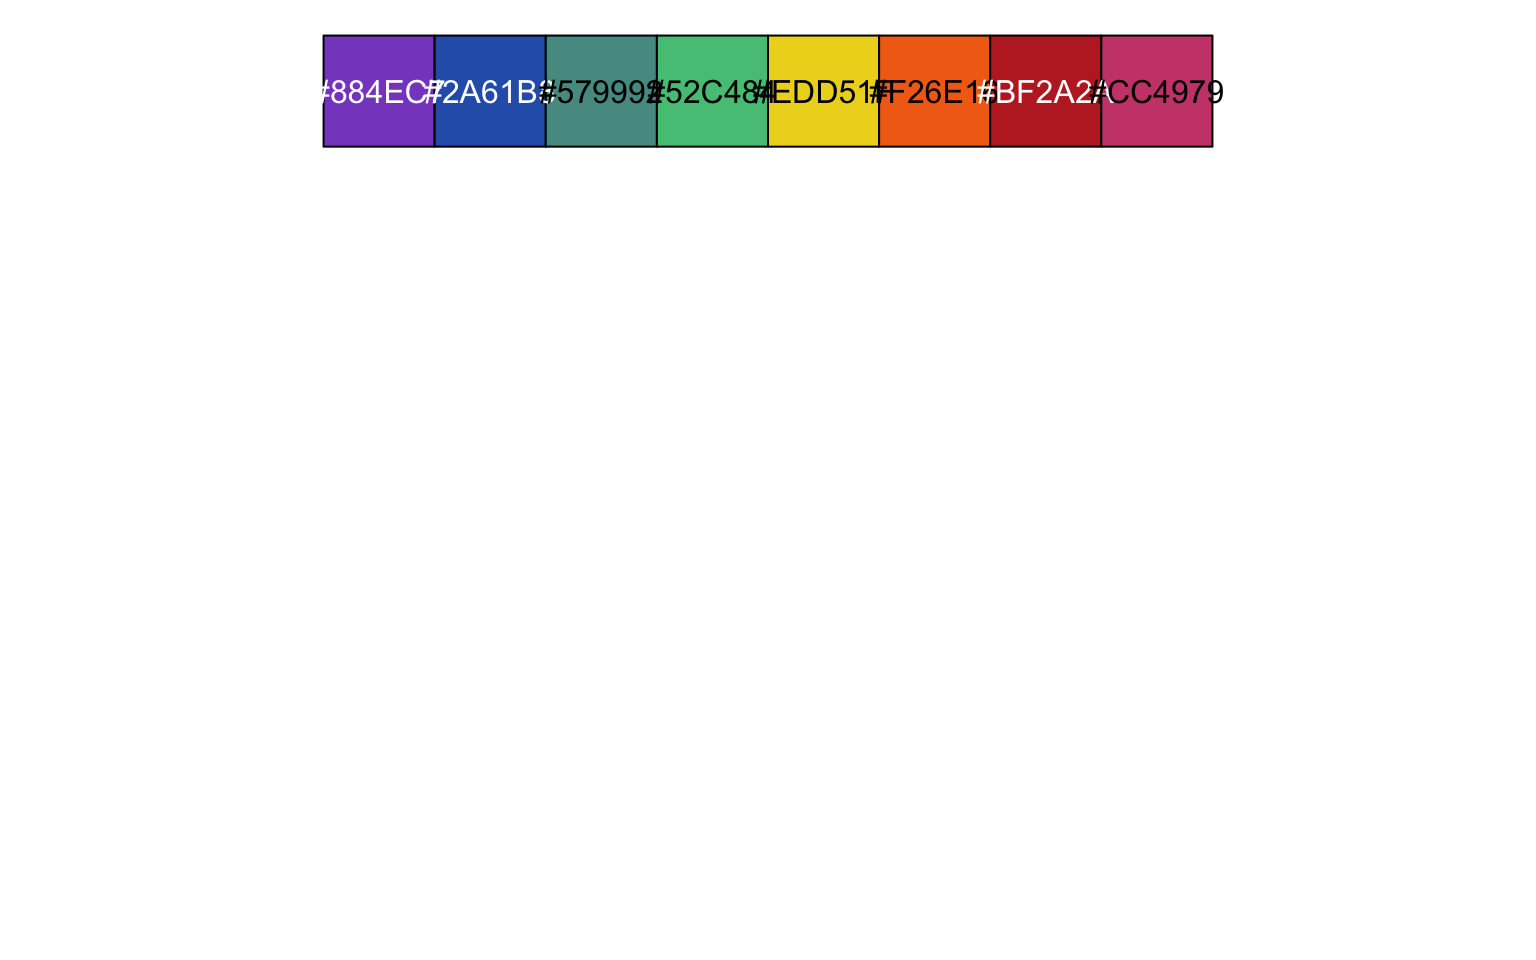
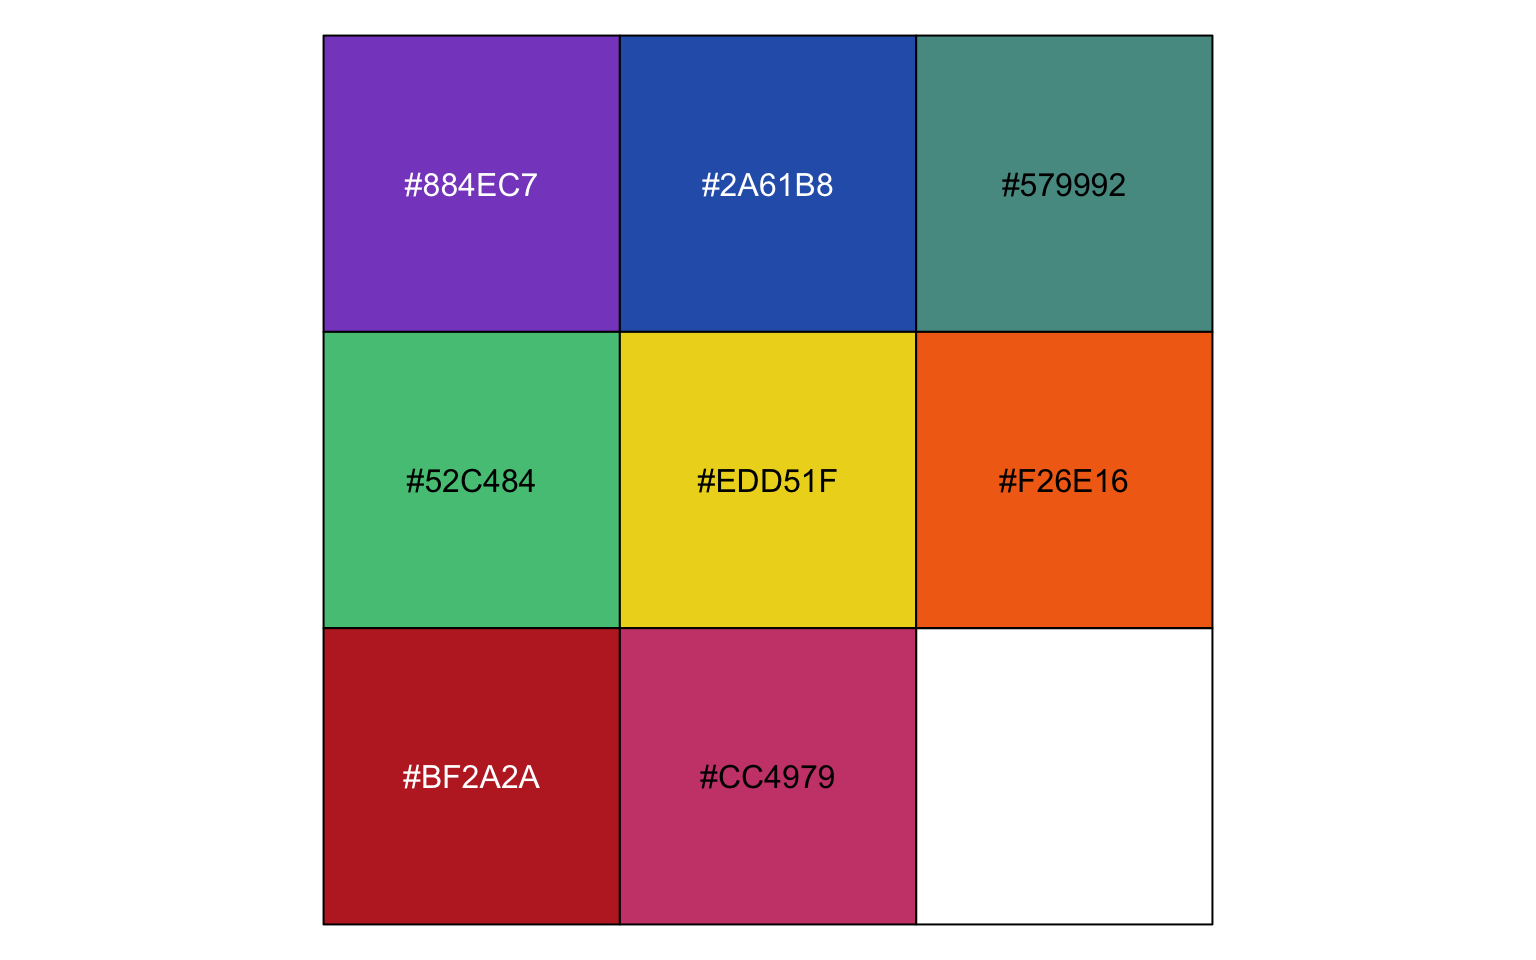
New vign

diff --git a/docs/articles/ggthemeML.html b/docs/articles/ggthemeML.html
@@ -75,7 +75,7 @@
 </h2>
 <p>Here I include a few examples of using my own ggplot theme.</p>
 <div class="sourceCode" id="cb1"><pre class="downlit sourceCode r">
-<code class="sourceCode R"><span><span class="kw"><a href="https://rdrr.io/r/base/library.html" class="external-link">library</a></span><span class="op">(</span><span class="va"><a href="https://mengbo-li.github.io/ggthemeML/" class="external-link">ggthemeML</a></span><span class="op">)</span></span>
+<code class="sourceCode R"><span><span class="kw"><a href="https://rdrr.io/r/base/library.html" class="external-link">library</a></span><span class="op">(</span><span class="va"><a href="https://mengbo-li.github.io/ggthemeML/">ggthemeML</a></span><span class="op">)</span></span>
 <span><span class="kw"><a href="https://rdrr.io/r/base/library.html" class="external-link">library</a></span><span class="op">(</span><span class="va"><a href="https://scales.r-lib.org" class="external-link">scales</a></span><span class="op">)</span></span></code></pre></div>
 </div>
 <div class="section level2">
@@ -84,25 +84,25 @@
 <p>Available color palettes so far:</p>
 <div class="sourceCode" id="cb2"><pre class="sourceCode r"><code class="sourceCode r"><span id="cb2-1"><a href="#cb2-1" aria-hidden="true" tabindex="-1"></a><span class="fu">names</span>(ggthemeML<span class="sc">:::</span>mengbo_palettes)</span>
 <span id="cb2-2"><a href="#cb2-2" aria-hidden="true" tabindex="-1"></a>[<span class="dv">1</span>] <span class="st">"main"</span>     <span class="st">"cool"</span>     <span class="st">"hot"</span>      <span class="st">"pastel"</span>   <span class="st">"light"</span>    <span class="st">"grey"</span>     <span class="st">"opposite"</span></span>
-<span id="cb2-3"><a href="#cb2-3" aria-hidden="true" tabindex="-1"></a><span class="fu">show_col</span>(<span class="fu">mengbo_pal</span>(<span class="st">"main"</span>)(<span class="dv">8</span>), <span class="at">ncol =</span> <span class="dv">8</span>)</span></code></pre></div>
+<span id="cb2-3"><a href="#cb2-3" aria-hidden="true" tabindex="-1"></a><span class="fu">show_col</span>(<span class="fu">mengbo_pal</span>(<span class="st">"main"</span>)(<span class="dv">8</span>))</span></code></pre></div>
 <p><img src="ggthemeML_files/figure-html/unnamed-chunk-2-1.png" width="768"></p>
 <div class="sourceCode" id="cb3"><pre class="downlit sourceCode r">
-<code class="sourceCode R"><span><span class="fu"><a href="https://scales.r-lib.org/reference/show_col.html" class="external-link">show_col</a></span><span class="op">(</span><span class="fu"><a href="../reference/mengbo_pal.html">mengbo_pal</a></span><span class="op">(</span><span class="st">"cool"</span><span class="op">)</span><span class="op">(</span><span class="fl">4</span><span class="op">)</span>, ncol <span class="op">=</span> <span class="fl">4</span><span class="op">)</span></span></code></pre></div>
+<code class="sourceCode R"><span><span class="fu"><a href="https://scales.r-lib.org/reference/show_col.html" class="external-link">show_col</a></span><span class="op">(</span><span class="fu"><a href="../reference/mengbo_pal.html">mengbo_pal</a></span><span class="op">(</span><span class="st">"cool"</span><span class="op">)</span><span class="op">(</span><span class="fl">4</span><span class="op">)</span><span class="op">)</span></span></code></pre></div>
 <p><img src="ggthemeML_files/figure-html/unnamed-chunk-2-2.png" width="768"></p>
 <div class="sourceCode" id="cb4"><pre class="downlit sourceCode r">
-<code class="sourceCode R"><span><span class="fu"><a href="https://scales.r-lib.org/reference/show_col.html" class="external-link">show_col</a></span><span class="op">(</span><span class="fu"><a href="../reference/mengbo_pal.html">mengbo_pal</a></span><span class="op">(</span><span class="st">"hot"</span><span class="op">)</span><span class="op">(</span><span class="fl">4</span><span class="op">)</span>, ncol <span class="op">=</span> <span class="fl">4</span><span class="op">)</span></span></code></pre></div>
+<code class="sourceCode R"><span><span class="fu"><a href="https://scales.r-lib.org/reference/show_col.html" class="external-link">show_col</a></span><span class="op">(</span><span class="fu"><a href="../reference/mengbo_pal.html">mengbo_pal</a></span><span class="op">(</span><span class="st">"hot"</span><span class="op">)</span><span class="op">(</span><span class="fl">4</span><span class="op">)</span><span class="op">)</span></span></code></pre></div>
 <p><img src="ggthemeML_files/figure-html/unnamed-chunk-2-3.png" width="768"></p>
 <div class="sourceCode" id="cb5"><pre class="downlit sourceCode r">
-<code class="sourceCode R"><span><span class="fu"><a href="https://scales.r-lib.org/reference/show_col.html" class="external-link">show_col</a></span><span class="op">(</span><span class="fu"><a href="../reference/mengbo_pal.html">mengbo_pal</a></span><span class="op">(</span><span class="st">"pastel"</span><span class="op">)</span><span class="op">(</span><span class="fl">8</span><span class="op">)</span>, ncol <span class="op">=</span> <span class="fl">8</span><span class="op">)</span></span></code></pre></div>
+<code class="sourceCode R"><span><span class="fu"><a href="https://scales.r-lib.org/reference/show_col.html" class="external-link">show_col</a></span><span class="op">(</span><span class="fu"><a href="../reference/mengbo_pal.html">mengbo_pal</a></span><span class="op">(</span><span class="st">"pastel"</span><span class="op">)</span><span class="op">(</span><span class="fl">8</span><span class="op">)</span><span class="op">)</span></span></code></pre></div>
 <p><img src="ggthemeML_files/figure-html/unnamed-chunk-2-4.png" width="768"></p>
 <div class="sourceCode" id="cb6"><pre class="downlit sourceCode r">
-<code class="sourceCode R"><span><span class="fu"><a href="https://scales.r-lib.org/reference/show_col.html" class="external-link">show_col</a></span><span class="op">(</span><span class="fu"><a href="../reference/mengbo_pal.html">mengbo_pal</a></span><span class="op">(</span><span class="st">"light"</span><span class="op">)</span><span class="op">(</span><span class="fl">8</span><span class="op">)</span>, ncol <span class="op">=</span> <span class="fl">8</span><span class="op">)</span></span></code></pre></div>
+<code class="sourceCode R"><span><span class="fu"><a href="https://scales.r-lib.org/reference/show_col.html" class="external-link">show_col</a></span><span class="op">(</span><span class="fu"><a href="../reference/mengbo_pal.html">mengbo_pal</a></span><span class="op">(</span><span class="st">"light"</span><span class="op">)</span><span class="op">(</span><span class="fl">8</span><span class="op">)</span><span class="op">)</span></span></code></pre></div>
 <p><img src="ggthemeML_files/figure-html/unnamed-chunk-2-5.png" width="768"></p>
 <div class="sourceCode" id="cb7"><pre class="downlit sourceCode r">
-<code class="sourceCode R"><span><span class="fu"><a href="https://scales.r-lib.org/reference/show_col.html" class="external-link">show_col</a></span><span class="op">(</span><span class="fu"><a href="../reference/mengbo_pal.html">mengbo_pal</a></span><span class="op">(</span><span class="st">"grey"</span><span class="op">)</span><span class="op">(</span><span class="fl">5</span><span class="op">)</span>, ncol <span class="op">=</span> <span class="fl">5</span><span class="op">)</span></span></code></pre></div>
+<code class="sourceCode R"><span><span class="fu"><a href="https://scales.r-lib.org/reference/show_col.html" class="external-link">show_col</a></span><span class="op">(</span><span class="fu"><a href="../reference/mengbo_pal.html">mengbo_pal</a></span><span class="op">(</span><span class="st">"grey"</span><span class="op">)</span><span class="op">(</span><span class="fl">5</span><span class="op">)</span><span class="op">)</span></span></code></pre></div>
 <p><img src="ggthemeML_files/figure-html/unnamed-chunk-2-6.png" width="768"></p>
 <div class="sourceCode" id="cb8"><pre class="downlit sourceCode r">
-<code class="sourceCode R"><span><span class="fu"><a href="https://scales.r-lib.org/reference/show_col.html" class="external-link">show_col</a></span><span class="op">(</span><span class="fu"><a href="../reference/mengbo_pal.html">mengbo_pal</a></span><span class="op">(</span><span class="st">"opposite"</span><span class="op">)</span><span class="op">(</span><span class="fl">6</span><span class="op">)</span>, ncol <span class="op">=</span> <span class="fl">6</span><span class="op">)</span></span></code></pre></div>
+<code class="sourceCode R"><span><span class="fu"><a href="https://scales.r-lib.org/reference/show_col.html" class="external-link">show_col</a></span><span class="op">(</span><span class="fu"><a href="../reference/mengbo_pal.html">mengbo_pal</a></span><span class="op">(</span><span class="st">"opposite"</span><span class="op">)</span><span class="op">(</span><span class="fl">6</span><span class="op">)</span><span class="op">)</span></span></code></pre></div>
 <p><img src="ggthemeML_files/figure-html/unnamed-chunk-2-7.png" width="768"></p>
 <div class="sourceCode" id="cb9"><pre class="downlit sourceCode r">
 <code class="sourceCode R"><span><span class="fu"><a href="https://scales.r-lib.org/reference/show_col.html" class="external-link">show_col</a></span><span class="op">(</span><span class="fu"><a href="../reference/mengbo_pal.html">mengbo_pal</a></span><span class="op">(</span><span class="st">"main"</span><span class="op">)</span><span class="op">(</span><span class="fl">16</span><span class="op">)</span><span class="op">)</span></span></code></pre></div>

diff --git a/docs/404.html b/docs/404.html
@@ -6,23 +6,23 @@
 <meta http-equiv="X-UA-Compatible" content="IE=edge">
 <meta name="viewport" content="width=device-width, initial-scale=1, shrink-to-fit=no">
 <title>Page not found (404) • ggthemeML</title>
-<script src="deps/jquery-3.6.0/jquery-3.6.0.min.js"></script><meta name="viewport" content="width=device-width, initial-scale=1, shrink-to-fit=no">
-<link href="deps/bootstrap-5.1.0/bootstrap.min.css" rel="stylesheet">
-<script src="deps/bootstrap-5.1.0/bootstrap.bundle.min.js"></script><!-- Font Awesome icons --><link rel="stylesheet" href="https://cdnjs.cloudflare.com/ajax/libs/font-awesome/5.12.1/css/all.min.css" integrity="sha256-mmgLkCYLUQbXn0B1SRqzHar6dCnv9oZFPEC1g1cwlkk=" crossorigin="anonymous">
+<script src="https://mengbo-li.github.io/ggthemeML/deps/jquery-3.6.0/jquery-3.6.0.min.js"></script><meta name="viewport" content="width=device-width, initial-scale=1, shrink-to-fit=no">
+<link href="https://mengbo-li.github.io/ggthemeML/deps/bootstrap-5.1.0/bootstrap.min.css" rel="stylesheet">
+<script src="https://mengbo-li.github.io/ggthemeML/deps/bootstrap-5.1.0/bootstrap.bundle.min.js"></script><!-- Font Awesome icons --><link rel="stylesheet" href="https://cdnjs.cloudflare.com/ajax/libs/font-awesome/5.12.1/css/all.min.css" integrity="sha256-mmgLkCYLUQbXn0B1SRqzHar6dCnv9oZFPEC1g1cwlkk=" crossorigin="anonymous">
 <link rel="stylesheet" href="https://cdnjs.cloudflare.com/ajax/libs/font-awesome/5.12.1/css/v4-shims.min.css" integrity="sha256-wZjR52fzng1pJHwx4aV2AO3yyTOXrcDW7jBpJtTwVxw=" crossorigin="anonymous">
-<!-- bootstrap-toc --><script src="https://cdn.rawgit.com/afeld/bootstrap-toc/v1.0.1/dist/bootstrap-toc.min.js"></script><!-- headroom.js --><script src="https://cdnjs.cloudflare.com/ajax/libs/headroom/0.11.0/headroom.min.js" integrity="sha256-AsUX4SJE1+yuDu5+mAVzJbuYNPHj/WroHuZ8Ir/CkE0=" crossorigin="anonymous"></script><script src="https://cdnjs.cloudflare.com/ajax/libs/headroom/0.11.0/jQuery.headroom.min.js" integrity="sha256-ZX/yNShbjqsohH1k95liqY9Gd8uOiE1S4vZc+9KQ1K4=" crossorigin="anonymous"></script><!-- clipboard.js --><script src="https://cdnjs.cloudflare.com/ajax/libs/clipboard.js/2.0.6/clipboard.min.js" integrity="sha256-inc5kl9MA1hkeYUt+EC3BhlIgyp/2jDIyBLS6k3UxPI=" crossorigin="anonymous"></script><!-- search --><script src="https://cdnjs.cloudflare.com/ajax/libs/fuse.js/6.4.6/fuse.js" integrity="sha512-zv6Ywkjyktsohkbp9bb45V6tEMoWhzFzXis+LrMehmJZZSys19Yxf1dopHx7WzIKxr5tK2dVcYmaCk2uqdjF4A==" crossorigin="anonymous"></script><script src="https://cdnjs.cloudflare.com/ajax/libs/autocomplete.js/0.38.0/autocomplete.jquery.min.js" integrity="sha512-GU9ayf+66Xx2TmpxqJpliWbT5PiGYxpaG8rfnBEk1LL8l1KGkRShhngwdXK1UgqhAzWpZHSiYPc09/NwDQIGyg==" crossorigin="anonymous"></script><script src="https://cdnjs.cloudflare.com/ajax/libs/mark.js/8.11.1/mark.min.js" integrity="sha512-5CYOlHXGh6QpOFA/TeTylKLWfB3ftPsde7AnmhuitiTX4K5SqCLBeKro6sPS8ilsz1Q4NRx3v8Ko2IBiszzdww==" crossorigin="anonymous"></script><!-- pkgdown --><script src="pkgdown.js"></script><meta property="og:title" content="Page not found (404)">
+<!-- bootstrap-toc --><script src="https://cdn.rawgit.com/afeld/bootstrap-toc/v1.0.1/dist/bootstrap-toc.min.js"></script><!-- headroom.js --><script src="https://cdnjs.cloudflare.com/ajax/libs/headroom/0.11.0/headroom.min.js" integrity="sha256-AsUX4SJE1+yuDu5+mAVzJbuYNPHj/WroHuZ8Ir/CkE0=" crossorigin="anonymous"></script><script src="https://cdnjs.cloudflare.com/ajax/libs/headroom/0.11.0/jQuery.headroom.min.js" integrity="sha256-ZX/yNShbjqsohH1k95liqY9Gd8uOiE1S4vZc+9KQ1K4=" crossorigin="anonymous"></script><!-- clipboard.js --><script src="https://cdnjs.cloudflare.com/ajax/libs/clipboard.js/2.0.6/clipboard.min.js" integrity="sha256-inc5kl9MA1hkeYUt+EC3BhlIgyp/2jDIyBLS6k3UxPI=" crossorigin="anonymous"></script><!-- search --><script src="https://cdnjs.cloudflare.com/ajax/libs/fuse.js/6.4.6/fuse.js" integrity="sha512-zv6Ywkjyktsohkbp9bb45V6tEMoWhzFzXis+LrMehmJZZSys19Yxf1dopHx7WzIKxr5tK2dVcYmaCk2uqdjF4A==" crossorigin="anonymous"></script><script src="https://cdnjs.cloudflare.com/ajax/libs/autocomplete.js/0.38.0/autocomplete.jquery.min.js" integrity="sha512-GU9ayf+66Xx2TmpxqJpliWbT5PiGYxpaG8rfnBEk1LL8l1KGkRShhngwdXK1UgqhAzWpZHSiYPc09/NwDQIGyg==" crossorigin="anonymous"></script><script src="https://cdnjs.cloudflare.com/ajax/libs/mark.js/8.11.1/mark.min.js" integrity="sha512-5CYOlHXGh6QpOFA/TeTylKLWfB3ftPsde7AnmhuitiTX4K5SqCLBeKro6sPS8ilsz1Q4NRx3v8Ko2IBiszzdww==" crossorigin="anonymous"></script><!-- pkgdown --><script src="https://mengbo-li.github.io/ggthemeML/pkgdown.js"></script><meta property="og:title" content="Page not found (404)">
 <!-- mathjax --><script src="https://cdnjs.cloudflare.com/ajax/libs/mathjax/2.7.5/MathJax.js" integrity="sha256-nvJJv9wWKEm88qvoQl9ekL2J+k/RWIsaSScxxlsrv8k=" crossorigin="anonymous"></script><script src="https://cdnjs.cloudflare.com/ajax/libs/mathjax/2.7.5/config/TeX-AMS-MML_HTMLorMML.js" integrity="sha256-84DKXVJXs0/F8OTMzX4UR909+jtl4G7SPypPavF+GfA=" crossorigin="anonymous"></script><!--[if lt IE 9]>
 <script src="https://oss.maxcdn.com/html5shiv/3.7.3/html5shiv.min.js"></script>
 <script src="https://oss.maxcdn.com/respond/1.4.2/respond.min.js"></script>
 <![endif]-->
 </head>
 <body>
-    <a href="#main" class="visually-hidden-focusable">Skip to contents</a>
+    <a href="https://mengbo-li.github.io/ggthemeML/#main" class="visually-hidden-focusable">Skip to contents</a>
     
 
     <nav class="navbar fixed-top navbar-light navbar-expand-lg bg-light"><div class="container">
     
-    <a class="navbar-brand me-2" href="index.html">ggthemeML</a>
+    <a class="navbar-brand me-2" href="https://mengbo-li.github.io/ggthemeML/index.html">ggthemeML</a>
 
     <small class="nav-text text-muted me-auto" data-bs-toggle="tooltip" data-bs-placement="bottom" title="">1.0.0</small>
 
@@ -34,10 +34,10 @@
     <div id="navbar" class="collapse navbar-collapse ms-3">
       <ul class="navbar-nav me-auto">
 <li class="nav-item">
-  <a class="nav-link" href="articles/ggthemeML.html">Get started</a>
+  <a class="nav-link" href="https://mengbo-li.github.io/ggthemeML/articles/ggthemeML.html">Get started</a>
 </li>
 <li class="nav-item">
-  <a class="nav-link" href="reference/index.html">Reference</a>
+  <a class="nav-link" href="https://mengbo-li.github.io/ggthemeML/reference/index.html">Reference</a>
 </li>
       </ul>
 <form class="form-inline my-2 my-lg-0" role="search">
@@ -52,7 +52,7 @@
 </nav><div class="container template-title-body">
 <div class="row">
   <main id="main" class="col-md-9"><div class="page-header">
-      <img src="" class="logo" alt=""><h1>Page not found (404)</h1>
+      <img src="https://mengbo-li.github.io/ggthemeML/" class="logo" alt=""><h1>Page not found (404)</h1>
       
     </div>
 

diff --git a/docs/reference/mengbo_pal.html b/docs/reference/mengbo_pal.html
@@ -92,8 +92,8 @@ additional arguments to pass on to colorRampPallete()
 <span class="r-out co"><span class="r-pr">#&gt;</span>         rgb(x[, 1L], x[, 2L], x[, 3L], x[, 4L], maxColorValue = 255)</span>
 <span class="r-out co"><span class="r-pr">#&gt;</span>     else rgb(x[, 1L], x[, 2L], x[, 3L], maxColorValue = 255)</span>
 <span class="r-out co"><span class="r-pr">#&gt;</span> }</span>
-<span class="r-out co"><span class="r-pr">#&gt;</span> &lt;bytecode: 0x7f7d7790baf8&gt;</span>
-<span class="r-out co"><span class="r-pr">#&gt;</span> &lt;environment: 0x7f7d7790a908&gt;</span>
+<span class="r-out co"><span class="r-pr">#&gt;</span> &lt;bytecode: 0x7faa9d0a06e8&gt;</span>
+<span class="r-out co"><span class="r-pr">#&gt;</span> &lt;environment: 0x7faa9d0a3408&gt;</span>
 <span class="r-in"><span><span class="fu">mengbo_pal</span><span class="op">(</span><span class="st">"cool"</span><span class="op">)</span><span class="op">(</span><span class="fl">10</span><span class="op">)</span></span></span>
 <span class="r-out co"><span class="r-pr">#&gt;</span>  [1] "#884EC7" "#6854C2" "#495ABD" "#2A61B8" "#3873AB" "#48869E" "#579992"</span>
 <span class="r-out co"><span class="r-pr">#&gt;</span>  [8] "#55A78D" "#53B588" "#52C484"</span>

diff --git a/docs/authors.html b/docs/authors.html
@@ -52,7 +52,7 @@
 
       <p>Li M (2022).
 <em>ggthemeML: Customised Theme for ggplot with Mengbo's Own Colour Palettes</em>.
-R package version 1.0.0, <a href="https://mengbo-li.github.io/ggthemeML/" class="external-link">https://mengbo-li.github.io/ggthemeML/</a>. 
+R package version 1.0.0, <a href="https://mengbo-li.github.io/ggthemeML/">https://mengbo-li.github.io/ggthemeML/</a>. 
 </p>
       <pre>@Manual{,
   title = {ggthemeML: Customised Theme for ggplot with Mengbo's Own Colour Palettes},
